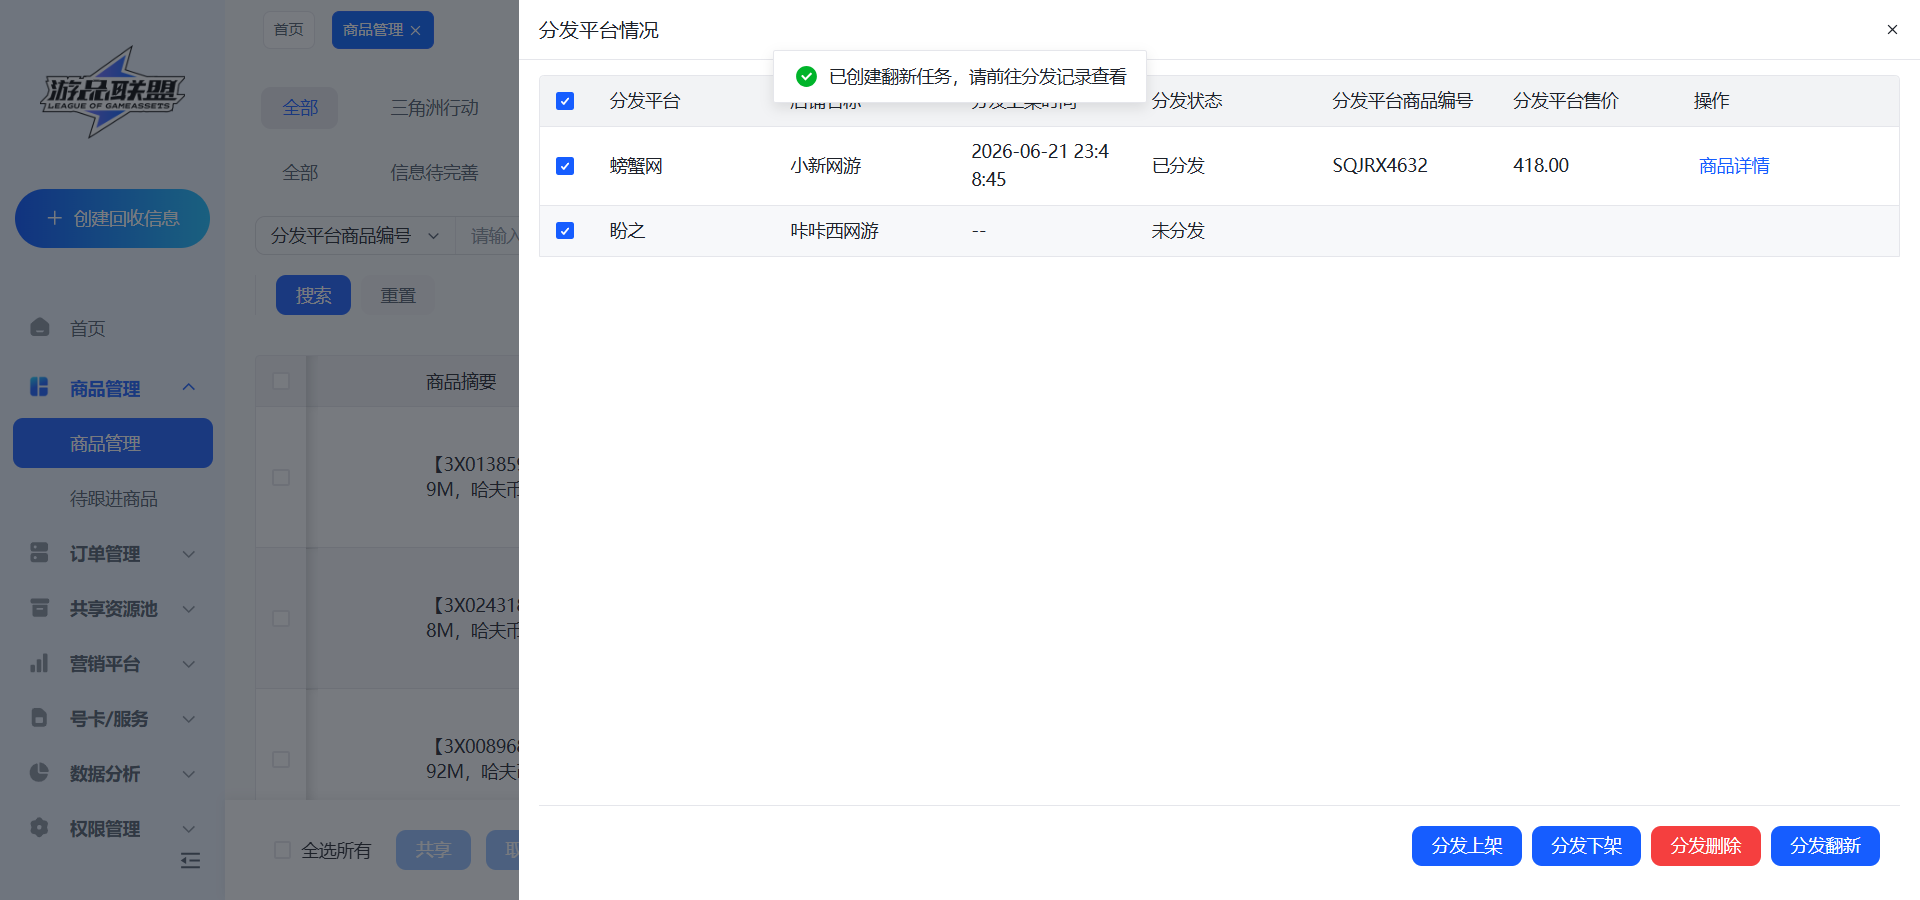
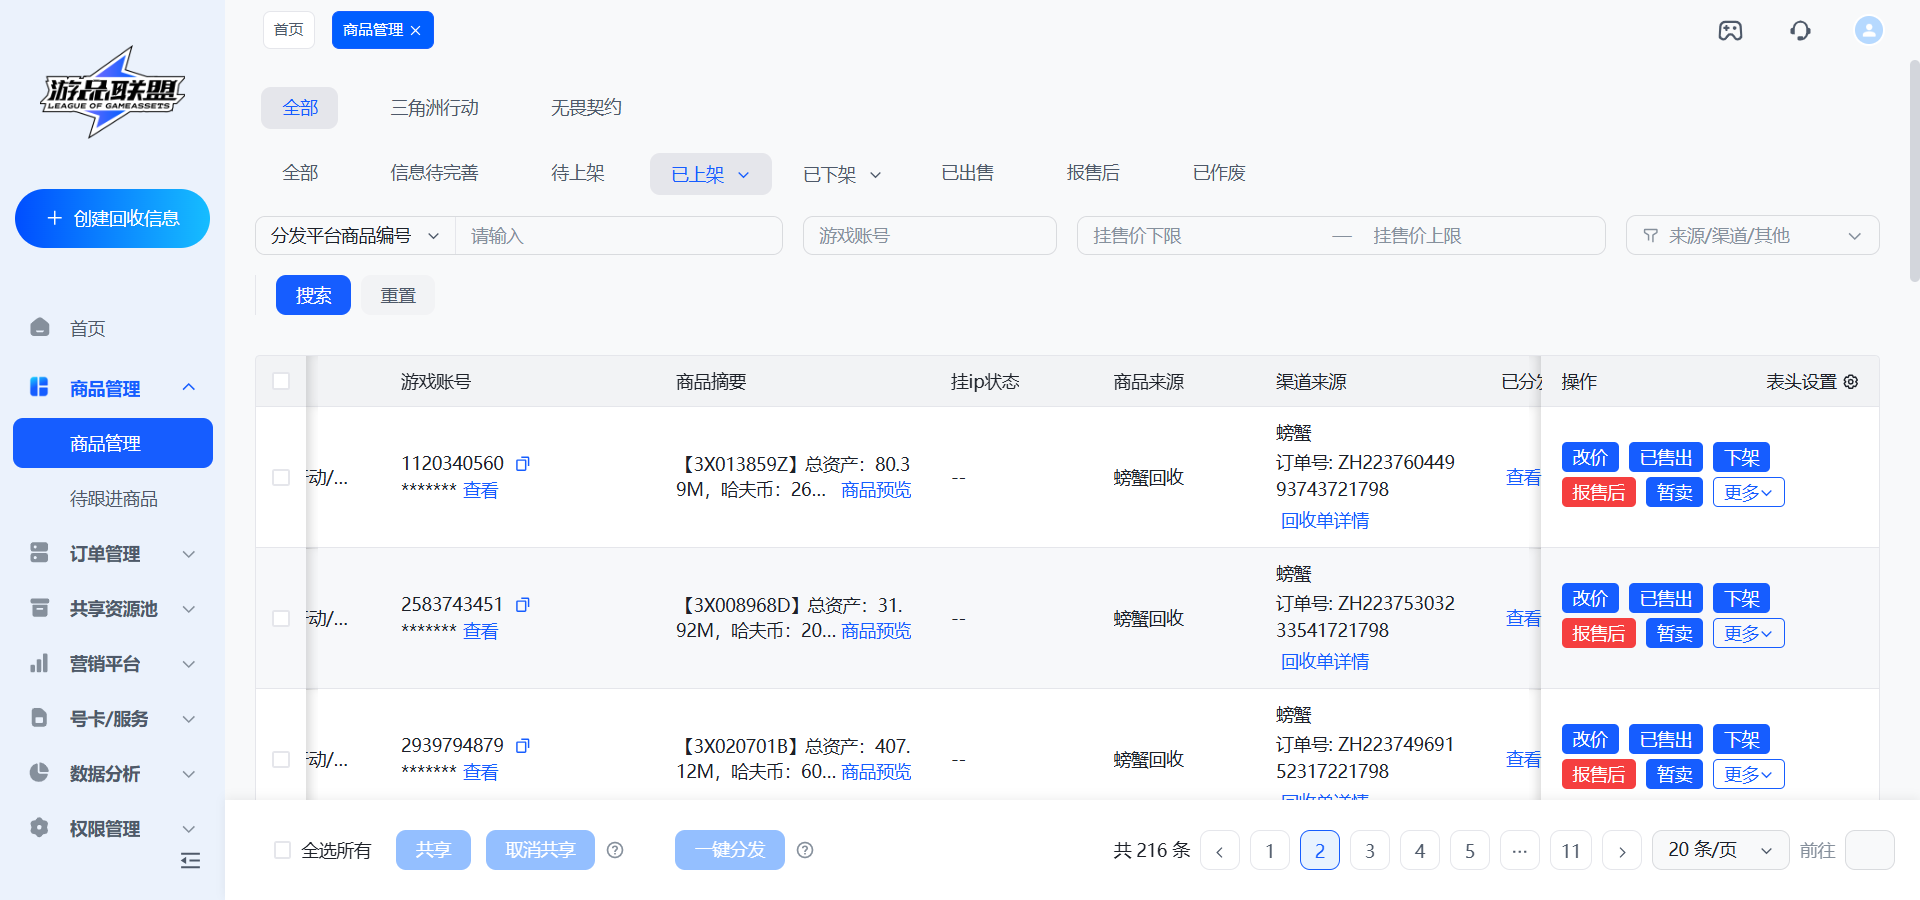
0622_游品自动化翻新功能完成

diff --git a/youpin.py b/youpin.py
@@ -44,9 +44,6 @@ try:
     login_btn = wait.until(EC.element_to_be_clickable((By.XPATH, login_xpath)))
     login_btn.click()
 
-    # 登录后页面跳转等待，短sleep仅作缓冲（可删，等待会兜底）
-
-
     # 6. 一级分类列表按钮（核心报错点，加等待）
     first_xpath = "//div[contains(@class,'arco-menu-inline')]//div[contains(@class,'arco-menu-inline-header')]//span[normalize-space()='商品管理' and contains(@class,'arco-menu-title')]"
     first_btn = wait.until(EC.element_to_be_clickable((By.XPATH, first_xpath)))
@@ -58,9 +55,6 @@ try:
     second_btn.click()
 
     # 进入已上架页面
-
-    # driver.execute_script("document.body.style.zoom='0.8'")
-
     # 8. 点击一级已上架
     sale_xpath = "//span[normalize-space()='已上架' and contains(@class,'arco-tag')]"
     sale_btn = wait.until(EC.element_to_be_clickable((By.XPATH, sale_xpath)))
@@ -70,8 +64,14 @@ try:
     sale2_btn = wait.until(EC.element_to_be_clickable((By.XPATH, sale2_xpath)))
     sale2_btn.click()
 
-
-
+    # ========== * 滚动外层主表格，露出查看按钮 ==========
+    outer_table_scroll_loc = (By.XPATH,
+                              "//div[contains(@class,'arco-table-body') and not(ancestor::div[contains(@class,'arco-overlay-drawer')])]")
+    scroll_ele = wait.until(EC.presence_of_element_located(outer_table_scroll_loc))
+    sleep(0.2)
+    # 水平向右滚动，把操作列（查看）滚到可视区
+    driver.execute_script("arguments[0].scrollLeft += 200;", scroll_ele)
+    sleep(0.3)
 
     # 分发翻新
     # 10. 点击查看
@@ -82,17 +82,7 @@ try:
     drawer_mask = (By.XPATH, "//div[contains(@class,'arco-overlay-drawer')]")
     close_btn1_lic=(By.XPATH,"//div[contains(@class,'arco-overlay-drawer')]//div[contains(@class,'arco-drawer-header')]//div[@aria-label='Close' and contains(@class,'arco-drawer-close-btn')]")
 
-
     while True:
-        # ========== * 每次循环先滚动外层主表格，露出查看按钮 ==========
-        outer_table_scroll_loc = (By.XPATH,
-                                  "//div[contains(@class,'arco-table-body') and not(ancestor::div[contains(@class,'arco-overlay-drawer')])]")
-        scroll_ele = wait.until(EC.presence_of_element_located(outer_table_scroll_loc))
-        sleep(0.2)
-        # 水平向右滚动，把操作列（查看）滚到可视区
-        driver.execute_script("arguments[0].scrollLeft += 200;", scroll_ele)
-        sleep(0.3)
-        # ===============================================================
 
         # 【关键】每次循环重新查询列表，规避Stale元素
         look_list = wait.until(EC.visibility_of_all_elements_located((By.XPATH, look_xpath)))
@@ -238,7 +228,33 @@ try:
                     pass
                 continue
 
+        # ===================== 当前页全部处理完毕，处理分页翻页逻辑 =====================
+        print("当前页面所有数据处理完成，检查是否有下一页")
+        sleep(1.5)
 
+        try:
+            # 等待分页按钮出现
+            next_page_loc = (By.XPATH, "//span[contains(@class,'arco-pagination-item-next')]")
+            # 等待分页按钮出现
+            print("让我找一找下一页按钮...")
+            next_btn = wait.until(EC.presence_of_element_located(next_page_loc))
+            print("找到下一页按钮了！")
+            # 判断是否禁用（arco分页禁用会带aria-disabled="true"）
+            aria_dis = next_btn.get_attribute("class")
+            print("下一页class值：",aria_dis)
+            if 'arco-pagination-item-disabled' in aria_dis:
+                print("下一页按钮已禁用，无更多数据，全部处理完毕！")
+                break
+            # 可点击，执行翻页
+            driver.execute_script("arguments[0].click();", next_btn)
+            print("已点击下一页，等待表格加载新数据")
+            sleep(2.0)
+            # 等待表格body重新渲染完成
+            wait.until(EC.presence_of_element_located(outer_table_scroll_loc))
+        except TimeoutException:
+            # 找不到下一页按钮，无分页
+            print("未检测到下一页分页按钮，全部数据处理完毕！")
+            break
 
 
 except Exception as e: